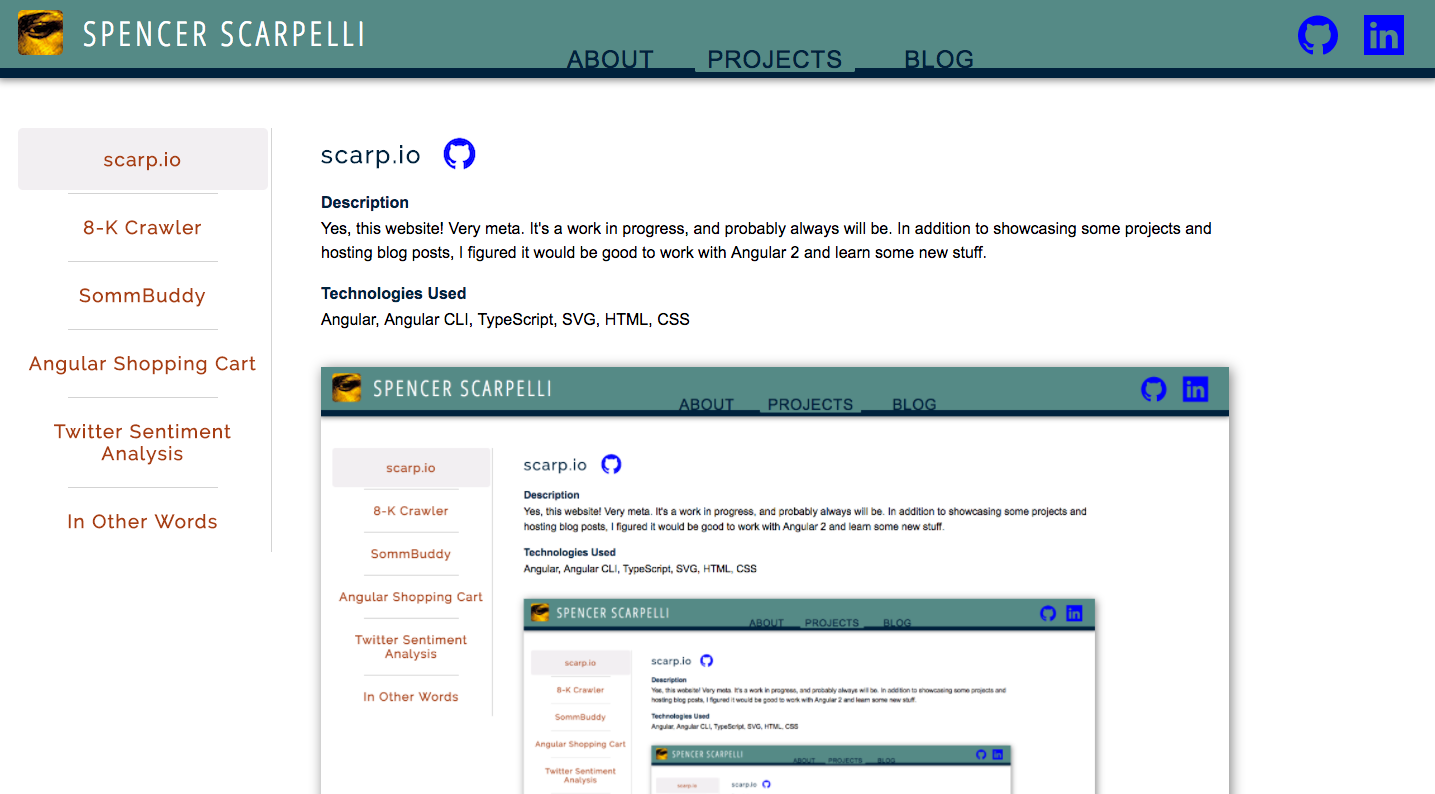
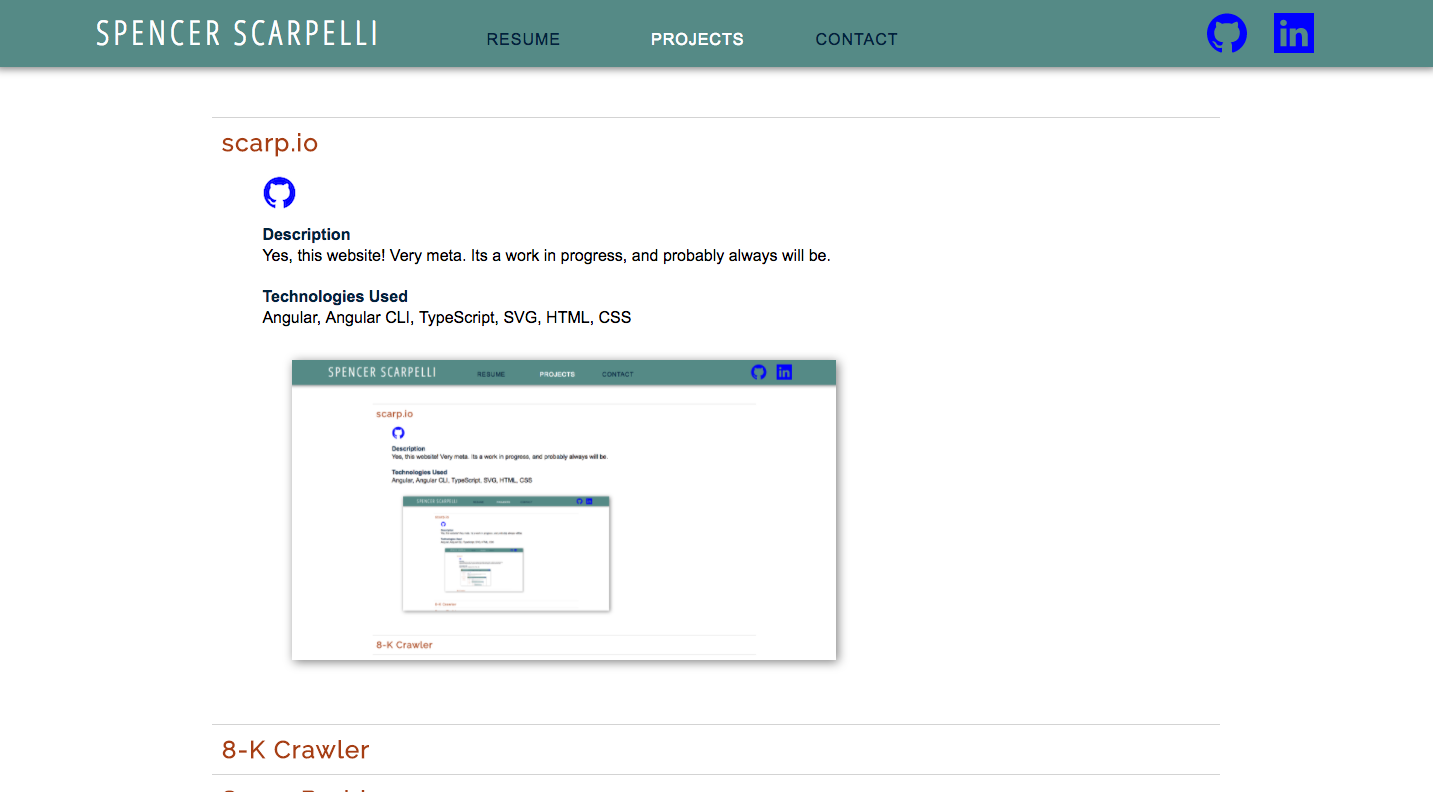
add CNAME

diff --git a/projects.html b/projects.html
@@ -43,6 +43,11 @@
         </div>
       </div>
     </div>
+
+    <div class="projects-intro">
+      <p>Here are a few of my projects demonstrating some use of different languages and libraries...</p>
+    </div>
+
     <div class="projects-container">
 
       <div id="project-scarp" class="project">
@@ -56,7 +61,7 @@
               <br/>
               <strong class="text3">Description</strong>
               <p>
-                Yes, this website! Very meta. Its a work in progress, and probably always will be. In addition to showcasing some projects and hosting blog posts, I figured it would be good to work with Angular 2 and learn some new stuff.
+                Yes, this website! Very meta. Its a work in progress, and probably always will be.
               </p>
               <strong class="text3">Technologies Used</strong>
               <p>

diff --git a/styles.css b/styles.css
@@ -154,6 +154,14 @@ footer > p {
   margin-top: 10px;
 }
 
+.projects-intro {
+  width: 70%;
+  margin: auto;
+  margin-top: 50px;
+  margin-bottom: 30px;
+  text-align: center;
+}
+
 .projects-container {
   width: 70%;
   margin: auto;
@@ -240,10 +248,13 @@ footer > p {
 }
 
 .contact-info h1 {
-  font-family: 'Raleway', sans-serif;
-  letter-spacing: 1.5px;
   margin-top: 20px;
   margin-bottom: 30px;
+}
+
+.contact-info a {
+  font-family: 'Raleway', sans-serif;
+  letter-spacing: 1.5px;
 }
 
 .text1 {

diff --git a/contact.html b/contact.html
@@ -45,8 +45,10 @@
     </div>
     <div class="contact-info">
       <p>
-        Please contact me at
-        <h1 class="text2">spencerscarpelli@gmail.com</h1>
+        You can reach me at
+        <a href="mailto:spencerscarpelli@gmail.com">
+          <h1 class="text2">spencerscarpelli@gmail.com</h1>
+        </a>
         with any inquiries.
       </p>
     </div>
